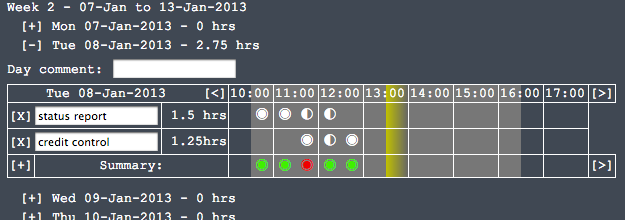
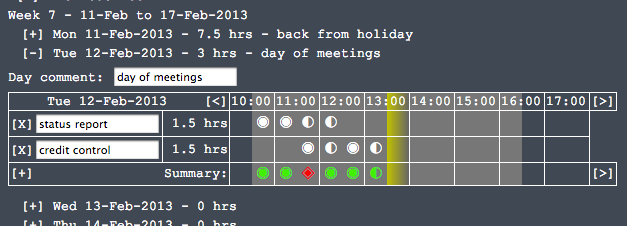
Visual tweaks ready for Alpha release. Fixed bug with displaying beyond end of day.

Changed region(s): [[0.0, 0.0, 1.0, 0.8455], [0.0304, 0.8727, 0.3952, 1.0]]

diff --git a/test/spec/dayControllersSpec.js b/test/spec/dayControllersSpec.js
@@ -80,7 +80,7 @@ describe('dayControllers', function() {
 
     describe('should track the showRange and hours', function () {
       it('work in normal conditions', function () {
-        scope.settings = {showStart: 8, showEnd: 10};
+        scope.settings = {showStart: 8, showEnd: 11};
         scope.day = {
           tasks: [
           ]
@@ -101,7 +101,7 @@ describe('dayControllers', function() {
         expect(scope.showRange).toEqual([14,15,16,17,18,19,20,21,22,23]);
       });
       it('be limited', function () {
-        scope.settings = {showStart: 0, showEnd: 23};
+        scope.settings = {showStart: 0, showEnd: 24};
         scope.day = {
           tasks: [
           ]
@@ -125,7 +125,7 @@ describe('dayControllers', function() {
 
     describe('should find start and end days', function () {
       it('use settings if no tasks', function () {
-        scope.settings = {showStart: 8, showEnd: 10};
+        scope.settings = {showStart: 8, showEnd: 11};
         scope.day = {
           tasks: [
           ]
@@ -134,8 +134,8 @@ describe('dayControllers', function() {
         expect(scope.hourStart).toBe(8);
         expect(scope.hourEnd).toBe(10);
       });
-      it('use settings if time encompasses task marks', function () {
-        scope.settings = {showStart: 8, showEnd: 10};
+      it('should use settings if time encompasses task marks', function () {
+        scope.settings = {showStart: 8, showEnd: 11};
         scope.day = {
           tasks: [
             makeTask('one').set(9,1)
@@ -145,7 +145,7 @@ describe('dayControllers', function() {
         expect(scope.hourStart).toBe(8);
         expect(scope.hourEnd).toBe(10);
       });
-      it('ignore settings if time inside task marks', function () {
+      it('should ignore settings if time inside task marks', function () {
         scope.settings = {showStart: 8, showEnd: 10};
         scope.day = {
           tasks: [
@@ -157,7 +157,7 @@ describe('dayControllers', function() {
         expect(scope.hourEnd).toBe(11);
       });
       it('use min and max of all tasks', function () {
-        scope.settings = {showStart: 8, showEnd: 10};
+        scope.settings = {showStart: 8, showEnd: 11};
         scope.day = {
           tasks: [
             makeTask('one').set(7,1).set(11,1),
@@ -170,7 +170,7 @@ describe('dayControllers', function() {
         expect(scope.hourEnd).toBe(13);
       });
       it('half hours should round correctly', function () {
-        scope.settings = {showStart: 8, showEnd: 10};
+        scope.settings = {showStart: 8, showEnd: 11};
         scope.day = {
           tasks: [
             makeTask('one').set(5.5,1).set(13.5,1)
@@ -184,7 +184,7 @@ describe('dayControllers', function() {
 
     describe('should calculate summary', function () {
       it('be all zeros for no tasks or empty tasks', function () {
-        scope.settings = {showStart: 8, showEnd: 10};
+        scope.settings = {showStart: 8, showEnd: 11};
         scope.day = {
           tasks: [
           ]
@@ -201,7 +201,7 @@ describe('dayControllers', function() {
         expect(scope.day.total).toEqual(0);
       });
       it('to sum up tasks', function () {
-        scope.settings = {showStart: 8, showEnd: 10};
+        scope.settings = {showStart: 8, showEnd: 11};
         scope.day = {
           tasks: [
             makeTask('one').set(0,1).set(0.5,2),
@@ -214,7 +214,7 @@ describe('dayControllers', function() {
         expect(scope.day.total).toEqual(1.5);
       });
       it('to change when mark changed', function () {
-        scope.settings = {showStart: 8, showEnd: 10};
+        scope.settings = {showStart: 8, showEnd: 11};
         scope.day = {
           tasks: [
             makeTask('one').set(0,1).set(0.5,2)
@@ -231,7 +231,7 @@ describe('dayControllers', function() {
         expect(scope.day.total).toEqual(0.5);
       });
       it('to change if tasks removed', function () {
-        scope.settings = {showStart: 8, showEnd: 10};
+        scope.settings = {showStart: 8, showEnd: 11};
         scope.day = {
           tasks: [
             makeTask('one').set(0,1).set(0.5,2),
@@ -252,7 +252,7 @@ describe('dayControllers', function() {
 
     describe('make tasks', function () {
       it('should add tasks', function () {
-        scope.settings = {showStart: 8, showEnd: 10};
+        scope.settings = {showStart: 8, showEnd: 11};
         scope.day = {
           tasks: [
             makeTask('one').set(0,1).set(0.5,2)
@@ -266,7 +266,7 @@ describe('dayControllers', function() {
         expect(scope.day.tasks[1].marks).toEqual(repeat(48,0));
       });
       it('should delete tasks', function () {
-        scope.settings = {showStart: 8, showEnd: 10};
+        scope.settings = {showStart: 8, showEnd: 11};
         scope.day = {
           tasks: [
             makeTask('one').set(0,1).set(0.5,2),

diff --git a/app/partials/help.html b/app/partials/help.html
@@ -3,10 +3,10 @@
 
 	<h2>The Time Grid</h2>
 	<p>For each day, the site presents a grid for the day. Like the one shown below:</p>
-	<p align="center"><img src="img/example_day.png" alt="example day" width="625" height="220" /></p>
+	<p align="center"><img src="img/example_day.png" alt="example day" width="627" height="226" /></p>
 	<p>Inside the time grid, click once to insert &#x25C9; for a full half-hour.</p>
 	<p>Clicking again turns the mark into a &#x25D0; for quarter-of-an-hour. Clicking again removes the mark.</p>
-	<p>The 'Summary' line shows a green <span class="summarycell">&#x25C9;</span> or <span class="summarycell">&#x25D0;</span> if there's time recorded above. If you record more than half-an-hour, then a red <span class="summarycell overflow">&#x25C9;</span> is shown.</p>
+	<p>The 'Summary' line shows a green <span class="summarycell">&#x25C9;</span> or <span class="summarycell">&#x25D0;</span> if there's time recorded above. If you record more than half-an-hour, then a red <span class="summarycell overflow">&#x25C8;</span> is shown.</p>
 	<p>A set of tasks are on the left; you can write anything here you want. You can add more tasks by clicing the [+] button. You can delete tasks with the [X] butons.</p>
 	<p>The Yellow line shows the current time; the grey background shows your normal working hours. You can show earlier hours by clicking [&lt;] or later hours by clicking [&gt;] -- see the Settings to change your normal working horus.</p>
 
@@ -24,7 +24,7 @@
 
 	<h2>Notifications</h2>
 	<p>Use the Settings button to enable notifications:</p>
-	<p align="center"><img src="img/example_notification.png" alt="example day" width="321" height="81" /></p>
+	<p align="center"><img src="img/example_notification.png" alt="example day" width="325" height="88" /></p>
 	<p>The notification window appars when you've got time to fill in. Clicking inside the notification brings the Time Tracker to the front.</p>
 	<p>(you must keep the Time Tracker website open for notifications to work)</p>
 

diff --git a/app/partials/top-nav.html b/app/partials/top-nav.html
@@ -1,6 +1,7 @@
 <div ng-controller="TopNavCtrl">
 <div class="navbar-fixed-top">
 	<div class="optButtons">
+		<div ng-class="showInDropdown | choice:'||background-hider'" ng-click="showDropdown('',$event)"></div>
 		<ul class="optButtonsList">
 			<li ng-class="showInDropdown | choice:'settings|selected|'" 
 			    ng-click="showDropdown('settings',$event)">Settings</li>
@@ -9,15 +10,16 @@
 			<li ng-class="showInDropdown | choice:'help|selected|'"
 			    ng-click="showDropdown('help',$event)">?</li>
 		</ul>
-		<div
-			 class="dropdown-menu" ng-class="showInDropdown | choice:'||open'" >
-			<div class="dropdown-menu-contents" ng-switch on="showInDropdown">
-				<div ng-switch-when="settings" ng-include="'partials/settings.html'" ></div>
-				<div ng-switch-when="export" ng-include="'partials/export.html'" ></div>
-				<div ng-switch-when="help" ng-include="'partials/help.html'" ></div>
+			<div class="dropdown-menu" ng-class="showInDropdown | choice:'||open'">
+				<div track-window-size="h-mid" class="dropdown-menu-contents">
+					<div class="inner" ng-switch on="showInDropdown">
+						<div ng-switch-when="settings" ng-include="'partials/settings.html'" ></div>
+						<div ng-switch-when="export" ng-include="'partials/export.html'" ></div>
+						<div ng-switch-when="help" ng-include="'partials/help.html'" ></div>
+					</div>
+				</div>
 			</div>
-		</div>
 	</div>
-	<span class="nameTitle">{{settings.name}}</span>
+	<div class="nameTitle" ng-click="showDropdown('',$event)">{{settings.name}}</div>
 </div>
 </div>

diff --git a/app/scripts/appControllers.js b/app/scripts/appControllers.js
@@ -182,6 +182,33 @@ angular.module(
         $event.stopPropagation();
     };
 
+    $scope.$watch('showInDropdown', function () {
+        $scope.$broadcast('resize');
+    } );
+
+}]).directive('trackWindowSize', ['$window', '$timeout', function WeekCtrl($window, $timeout) {
+
+    return function(scope, iElement, iAttrs) {
+        var inner = angular.element(iElement.find('div')[0]);
+        var resizeFunc = function (evt) {
+            iElement.css('height', Math.min($window.innerHeight - iElement[0].offsetTop*2 - 100,inner[0].clientHeight+iElement[0].offsetTop*2+10)+'px');
+        };
+        var resizeWindowBind = angular.element($window).bind('resize', resizeFunc);
+        scope.$on('$destroy',function () {
+            angular.element($window).unbind(resizeWindowBind);
+        } );
+        var resizeInnerBind = inner.bind('resize', resizeFunc);
+        scope.$on('$destroy',function () {
+            inner.unbind(resizeInnerBind);
+        } );
+        scope.$on('resize', function () {
+            $timeout( resizeFunc, 10 );
+        } );
+        scope.$on('$includeContentLoaded', function () {
+            $timeout( resizeFunc, 10 );
+        } );
+    };
+
 
 }]).controller('WeekCtrl', ['$scope', 'Utils', function WeekCtrl($scope, Utils) {
     $scope.days = [];

diff --git a/app/styles/main.css b/app/styles/main.css
@@ -1,5 +1,3 @@
-/* app css stylesheet */
-
 body {
 	padding-top: 20px;
 	background-color: #404853;
@@ -102,11 +100,26 @@ a {
 
 /** Dropdown box **/
 
+.background-hider {
+    position:fixed;
+    z-index: -1;
+    top:  0;
+    width: 100%;
+    left: 0;
+    height: 100%;
+
+    background-color: #404853;
+    -ms-filter:"progid:DXImageTransform.Microsoft.Alpha(Opacity=80)";
+    filter: alpha(opacity=80);
+    -moz-opacity:0.8;
+    -khtml-opacity: 0.8;
+    opacity: 0.8;
+}
+
 .dropdown-menu.open {
 	display: block;
 }
 .dropdown-menu {
-    height: 30em;
     max-width: 60em;
     position: absolute;
     top: 100%;
@@ -152,8 +165,13 @@ a {
 	/*border: 1px solid white;*/
 	margin-bottom: 1.5em
 }
+
+h2,
 .title {
-	font-size: x-large;
+    font-size: 1.5em;
+    font-weight: normal;
+}
+.title {
 	border-bottom: 1px solid white;
 }
 .entry {
@@ -170,6 +188,7 @@ a {
 }
 p {
 	margin: 4px 0;
+    line-height: 1.3em;
 }
 .settingsContainer label {
     white-space: nowrap;
@@ -216,7 +235,7 @@ td.markcell, td.summarycell {
 	color: #40f000;
 }
 .overflow { 
-	color: #f00000;
+	color: #ff0000;
 }
 
 .hourFloat {

diff --git a/app/partials/day-editor.html b/app/partials/day-editor.html
@@ -11,8 +11,8 @@
 		<thead>
 			<tr	>
 				<th colspan="3">
-					<span class="editDate">{{date | date:'EEE dd-MMM-yyyy'}}</span>
 					<div style="float:right;" ng-click="addBefore()" class="button">[&lt;]</div>
+					<span class="editDate">{{date | date:'EEE dd-MMM-yyyy'}}</span>
 				</th>
 				<td ng-repeat="i in showRange" 
 					class="hourcell"
@@ -37,8 +37,8 @@
 		<tfoot>
 			<tr	>
 				<th colspan="3">
-					<span ng-click="addTask()" class="addTask button">[+]</span>
-					<span>Summary:</span>
+					<span ng-click="addTask()" class="addTask button" style="float:left;">[+]</span>
+					<span style="float:right;">Summary:</span>
 				</th>
 				<td 
 					ng-repeat="i in showRange" 

diff --git a/test/spec/filtersSpec.js b/test/spec/filtersSpec.js
@@ -29,8 +29,8 @@ describe('filter', function() {
 			expect(markFilter(0)).toBe('');
 			expect(markFilter(1)).toBe('\u25D0');
 			expect(markFilter(2)).toBe('\u25C9');
-			expect(markFilter(3)).toBe('\u25C9');
-			expect(markFilter(3)).toBe('\u25C9');
+			expect(markFilter(3)).toBe('\u25C8');
+			expect(markFilter(4)).toBe('\u25C8');
 		}));
 	} );
 	

diff --git a/app/scripts/dayControllers.js b/app/scripts/dayControllers.js
@@ -53,7 +53,7 @@ angular.module(
     }
 
     $scope.hourStart = Math.min($scope.settings.showStart, firstHourWorked($scope.day));
-    $scope.hourEnd   = Math.max($scope.settings.showEnd,   lastHourWorked($scope.day));
+    $scope.hourEnd   = Math.max($scope.settings.showEnd-1,   lastHourWorked($scope.day));
 
 
     function makeShowRange() {

diff --git a/app/scripts/filters.js b/app/scripts/filters.js
@@ -28,7 +28,7 @@ angular.module('trackFilters', []).
     };
   }
 ).filter('mark',function() {
-    var marks = ['','\u25D0','\u25C9'],
+    var marks = ['','\u25D0','\u25C9','\u25C8'],
         maxMarks = marks.length-1;
     return function(input) {
       return marks[ Math.min(input,maxMarks) ];
